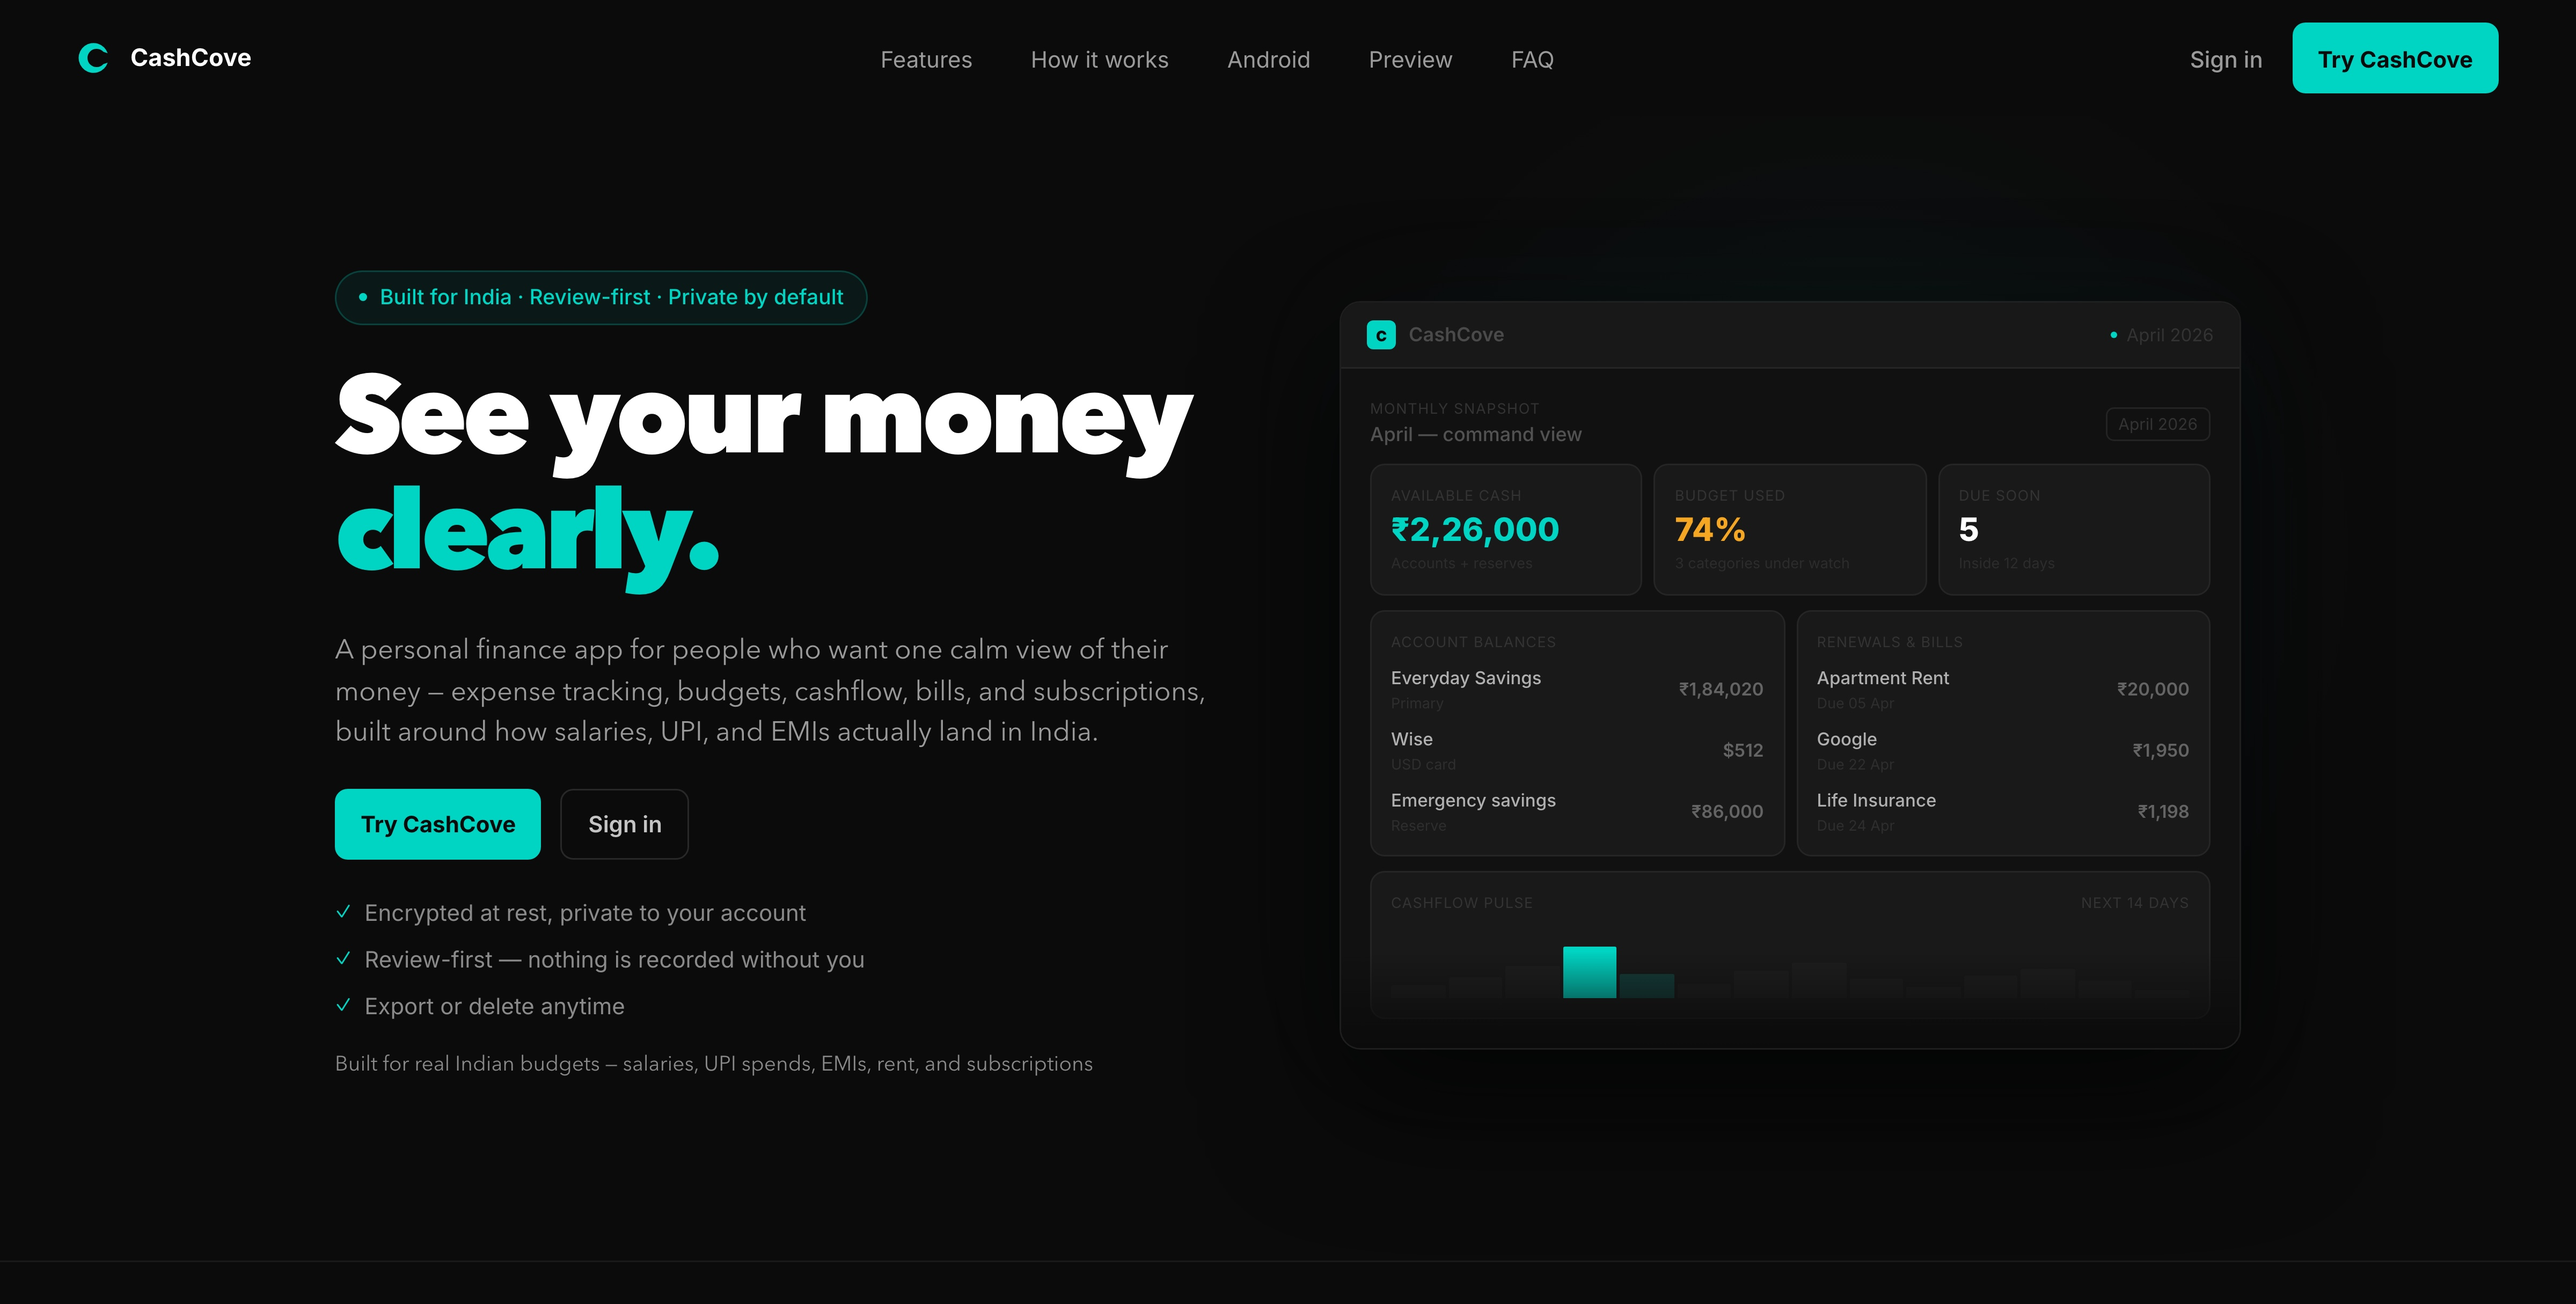
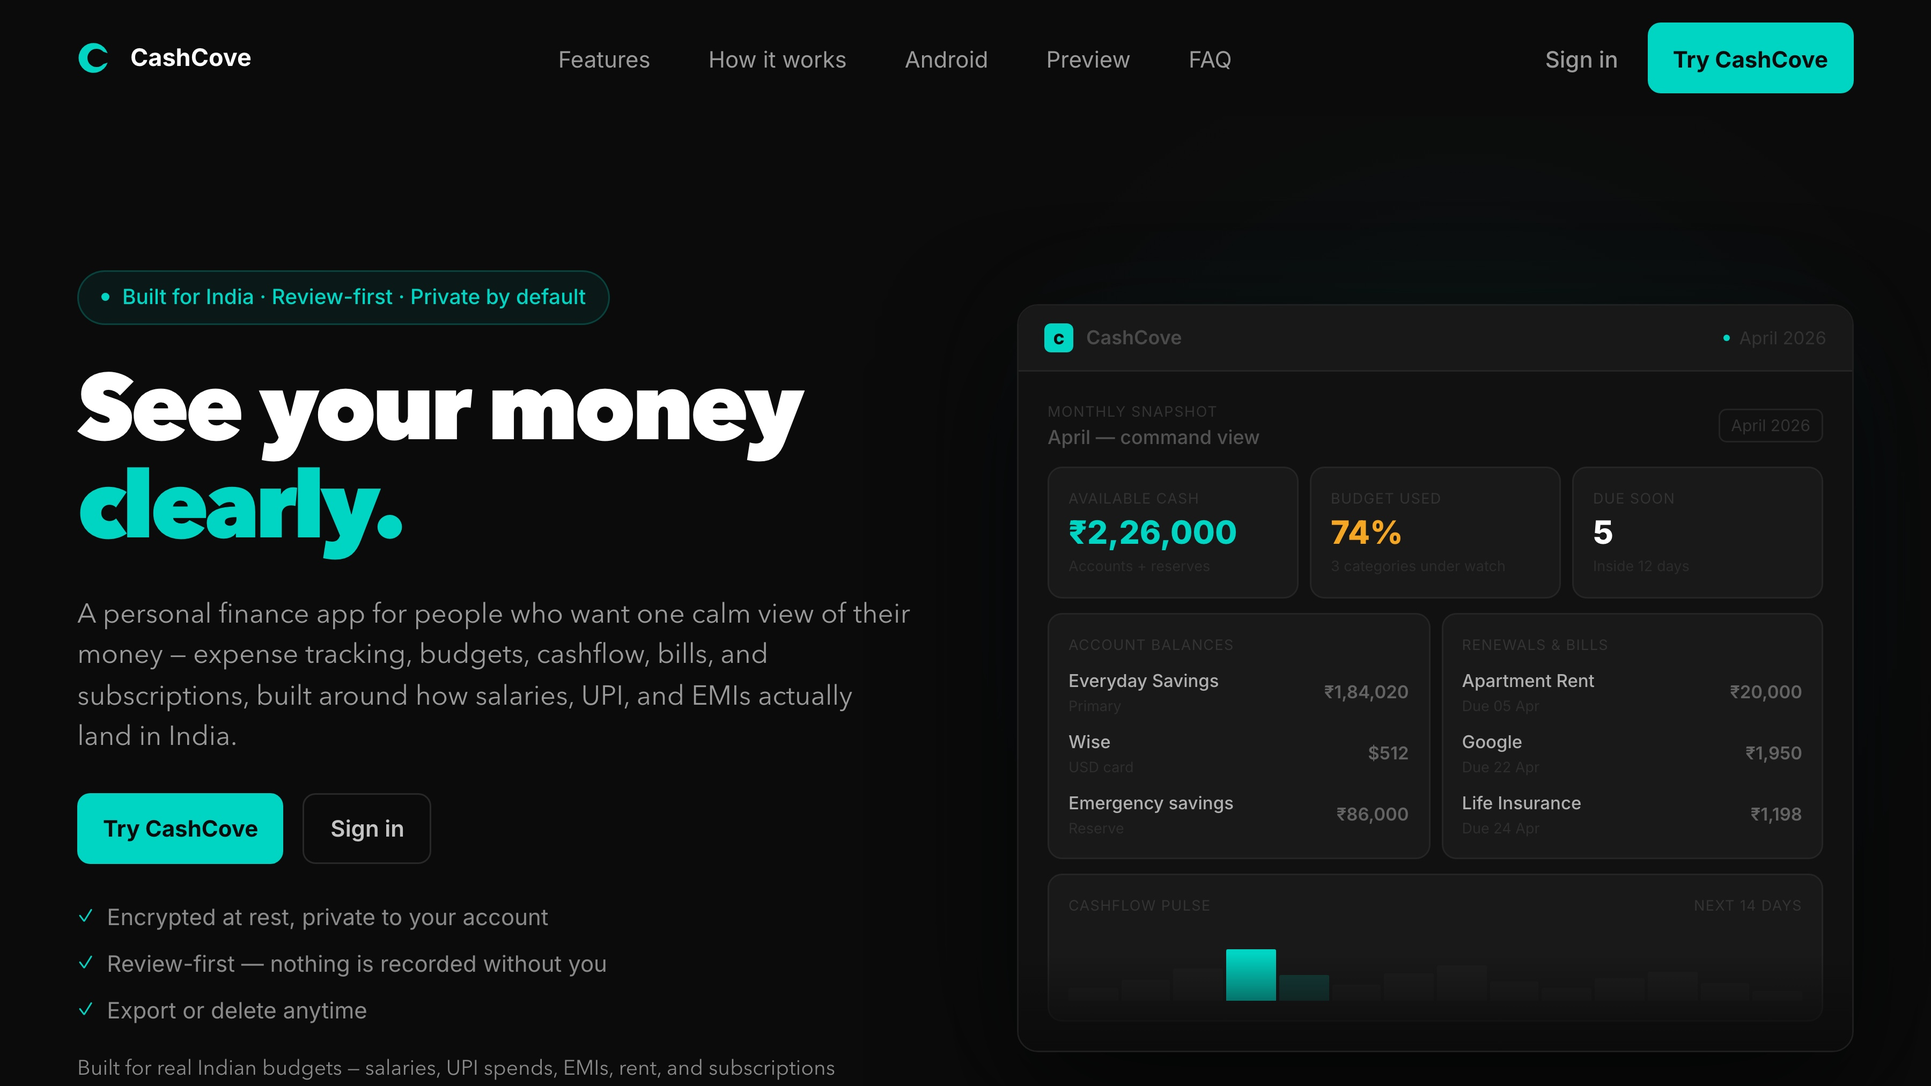
fix(projects): stop serving project covers below their layout width
The cover on a project page renders about 1224px wide inside the shell,
but its sizes hint claimed 1024px. A browser at DPR 1 therefore picked
the 1024w candidate and upscaled it ~20%, which is why the covers read
as low resolution regardless of how large the source image was.

State the real box — 1240px inside the shell's max width, viewport minus
the shell padding below it — and encode covers at quality 90 rather than
the default 75, since the flat dark screenshots band badly at 75.

Recapture the CashCove cover at a 1200px viewport and 3x scale, so the
page content is larger relative to the frame and the 16:9 crop is exact.

diff --git a/src/app/projects/[slug]/page.tsx b/src/app/projects/[slug]/page.tsx
@@ -86,7 +86,7 @@ export default async function ProjectDetailPage({ params }: Props) {
           fit={coverFit}
           imageClassName="scale-[1.01]"
           priority
-          sizes="(min-width: 1024px) 1024px, 100vw"
+          sizes="(min-width: 1360px) 1240px, (min-width: 1024px) calc(100vw - 80px), 100vw"
           src={project.coverImage}
         />
       </div>

diff --git a/src/components/project-cover-frame.tsx b/src/components/project-cover-frame.tsx
@@ -59,6 +59,7 @@ export function ProjectCoverFrame({
             className={`${fit === "contain" ? "object-contain" : "object-cover"} object-top ${imageClassName}`.trim()}
             fill
             priority={priority}
+            quality={90}
             sizes={sizes}
             src={src}
           />

diff --git a/next.config.ts b/next.config.ts
@@ -3,6 +3,7 @@ import type { NextConfig } from "next";
 const nextConfig: NextConfig = {
   pageExtensions: ["ts", "tsx", "md", "mdx"],
   images: {
+    qualities: [75, 90],
     remotePatterns: []
   }
 };
